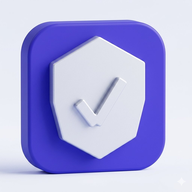
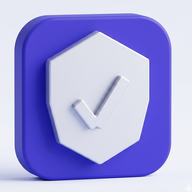
BETA 177

diff --git a/index.html b/index.html
@@ -2037,7 +2037,7 @@ function cardsSearch(q) {
   </div>
   <h1 class="auth-title">HomeBull</h1>
   <p class="auth-sub">Il tuo vault personale, sempre cifrato</p>
-  <div style="font-size:10px;color:rgba(255,255,255,0.25);margin-top:-8px;margin-bottom:4px;letter-spacing:0.05em;">BETA176</div>
+  <div style="font-size:10px;color:rgba(255,255,255,0.25);margin-top:-8px;margin-bottom:4px;letter-spacing:0.05em;">BETA177</div>
   <div class="auth-card">
 
     <!-- STEP 1: EMAIL -->
@@ -8399,7 +8399,8 @@ function settingsPage(page) {
   ['main','grafica','backup','sicurezza','info'].forEach(p => {
     const el = document.getElementById('set-page-'+p);
     if(el) el.style.display = p===page ? 'block' : 'none';
-  });
+    if (page === 'cloud') setTimeout(settingsCloudOpen, 50);
+});
   const titles = {main:'⚙️ Impostazioni',grafica:'🎨 Grafica',backup:'💾 Backup',sicurezza:'🔐 Sicurezza',info:'ℹ️ Info'};
   const t = document.getElementById('set-title'); if(t) t.textContent = titles[page]||'⚙️ Impostazioni';
   const back = document.getElementById('set-back-btn'); if(back) back.style.display = page==='main'?'none':'flex';
@@ -8849,6 +8850,7 @@ async function fbSyncAll(silent=false){
     if(Object.keys(data).length === 0) return;
     await fbDb.ref('hb13/' + emailKey).update({ ...data, _ts: tsMap });
     if(!silent) showToast('☁️ Dati sincronizzati');
+    _lastSyncTime = new Date();
     console.log('✓ Sync upload completato');
   }catch(e){
     console.warn('SyncAll:',e);
@@ -8893,6 +8895,71 @@ function fbStartRealtime(){
 
 function logout(){
   fbLogout(); HB.sessionKey=null; HB.user=null; location.reload();
+}
+
+// ── Cloud Settings ───────────────────────────────────────
+let _lastSyncTime = null;
+
+function settingsCloudOpen() {
+  // Account info
+  const emailEl = document.getElementById('cloud-account-email');
+  const uidEl   = document.getElementById('cloud-account-uid');
+  if (emailEl) emailEl.textContent = HB.user?.email || '—';
+  if (uidEl)   uidEl.textContent   = 'UID: ' + (HB.user?.uid?.slice(0,16) || '—') + '...';
+
+  // Online status
+  const dot  = document.getElementById('cloud-status-dot');
+  const txt  = document.getElementById('cloud-status-text');
+  const isOnline = navigator.onLine && fbReady;
+  if (dot) dot.style.background = isOnline ? '#10b981' : '#ef4444';
+  if (txt) { txt.textContent = isOnline ? 'Online' : 'Offline'; txt.style.color = isOnline ? '#10b981' : '#ef4444'; }
+
+  // Last sync
+  const lsEl = document.getElementById('cloud-last-sync');
+  if (lsEl) lsEl.textContent = _lastSyncTime ? 'Oggi alle ' + _lastSyncTime.toLocaleTimeString('it-IT',{hour:'2-digit',minute:'2-digit'}) : 'Mai sincronizzato';
+
+  // Auto sync toggle
+  const toggle = document.getElementById('cloud-auto-sync');
+  if (toggle) toggle.checked = localStorage.getItem('hb_auto_sync') !== '0';
+
+  // Data stats
+  try {
+    const pw  = JSON.parse(localStorage.getItem('hb12_passwords')||'[]');
+    const nt  = JSON.parse(localStorage.getItem('hb12_notes')||'[]');
+    const cal = JSON.parse(localStorage.getItem('hb12_calendar')||'[]');
+    const otp = JSON.parse(localStorage.getItem('hb12_otp_accounts')||'[]');
+    const set = (id, val) => { const el = document.getElementById(id); if(el) el.textContent = val; };
+    set('cs-passwords', pw.length);
+    set('cs-notes',     nt.length);
+    set('cs-calendar',  cal.length);
+    set('cs-otp',       otp.length);
+  } catch(e) {}
+
+  // Summary in main tile
+  const summary = document.getElementById('set-cloud-summary');
+  if (summary) summary.textContent = HB.user?.email || 'Non connesso';
+  const mainDot = document.getElementById('set-cloud-dot');
+  if (mainDot) mainDot.style.background = (navigator.onLine && fbReady) ? '#10b981' : '#ef4444';
+}
+
+async function cloudSyncNow() {
+  const btn = event?.target;
+  if (btn) { btn.disabled = true; btn.textContent = '⏳ Sync...'; }
+  try {
+    await fbSyncAll(false);
+    _lastSyncTime = new Date();
+    settingsCloudOpen();
+    showToast('✅ Sincronizzazione completata!');
+  } catch(e) {
+    showToast('⚠️ Sync fallito — controlla la connessione');
+  } finally {
+    if (btn) { btn.disabled = false; btn.textContent = 'Sincronizza ora'; }
+  }
+}
+
+function cloudToggleAutoSync(enabled) {
+  localStorage.setItem('hb_auto_sync', enabled ? '1' : '0');
+  showToast(enabled ? '✅ Sync automatico attivo' : 'Sync automatico disattivato');
 }
 
 fbInit();
@@ -9463,6 +9530,17 @@ function calShowAddEvent() {
             <div style="font-size:12px;color:var(--text3);line-height:1.4;">Versione, crediti, roadmap</div>
           </button>
 
+          <button onclick="settingsPage('cloud')" style="padding:20px 16px;border-radius:18px;border:1px solid var(--border);background:var(--surface);cursor:pointer;text-align:left;font-family:inherit;transition:background 0.15s;grid-column:span 2;">
+            <div style="display:flex;align-items:center;gap:12px;">
+              <div style="font-size:32px;">☁️</div>
+              <div>
+                <div style="font-size:15px;font-weight:800;color:var(--text);margin-bottom:4px;">Cloud & Sync</div>
+                <div style="font-size:12px;color:var(--text3);" id="set-cloud-summary">Stato sync e account connesso</div>
+              </div>
+              <div id="set-cloud-dot" style="margin-left:auto;width:10px;height:10px;border-radius:50%;background:#10b981;flex-shrink:0;"></div>
+            </div>
+          </button>
+
         </div>
       </div>
 
@@ -9548,6 +9626,88 @@ function calShowAddEvent() {
             <span style="font-size:11px;color:var(--text3);flex-shrink:0;">A piccolo</span>
             <input type="range" id="fs-slider" min="12" max="19" value="15" oninput="setFontSize(this.value)" style="flex:1;accent-color:var(--accent);">
             <span style="font-size:17px;color:var(--text3);flex-shrink:0;">A grande</span>
+          </div>
+        </div>
+
+      </div>
+
+      <!-- ── PAGINA CLOUD ── -->
+      <div id="set-page-cloud" style="display:none;padding:0 0 20px;">
+
+        <!-- Account -->
+        <div style="padding:16px 20px;border-bottom:1px solid var(--border);">
+          <div style="font-size:10px;font-weight:800;text-transform:uppercase;letter-spacing:.1em;color:var(--text3);margin-bottom:12px;">👤 Account</div>
+          <div style="display:flex;align-items:center;gap:12px;padding:14px;background:var(--surface);border:1px solid var(--border);border-radius:14px;">
+            <div style="width:40px;height:40px;border-radius:50%;background:var(--accent);display:flex;align-items:center;justify-content:center;font-size:18px;">👤</div>
+            <div style="flex:1;">
+              <div style="font-size:13px;font-weight:700;" id="cloud-account-email">—</div>
+              <div style="font-size:11px;color:var(--text3);margin-top:2px;" id="cloud-account-uid">UID: —</div>
+            </div>
+            <div style="display:flex;align-items:center;gap:6px;">
+              <div id="cloud-status-dot" style="width:8px;height:8px;border-radius:50%;background:#10b981;"></div>
+              <div style="font-size:11px;color:#10b981;font-weight:700;" id="cloud-status-text">Online</div>
+            </div>
+          </div>
+        </div>
+
+        <!-- Sync -->
+        <div style="padding:16px 20px;border-bottom:1px solid var(--border);">
+          <div style="font-size:10px;font-weight:800;text-transform:uppercase;letter-spacing:.1em;color:var(--text3);margin-bottom:12px;">🔄 Sincronizzazione</div>
+          <div style="background:var(--surface);border:1px solid var(--border);border-radius:14px;overflow:hidden;">
+            <div style="padding:12px 14px;display:flex;align-items:center;justify-content:space-between;border-bottom:1px solid var(--border);">
+              <div>
+                <div style="font-size:13px;font-weight:700;">Sync automatico</div>
+                <div style="font-size:11px;color:var(--text3);">Salva ad ogni modifica</div>
+              </div>
+              <label style="position:relative;display:inline-block;width:44px;height:24px;cursor:pointer;">
+                <input type="checkbox" id="cloud-auto-sync" checked onchange="cloudToggleAutoSync(this.checked)" style="opacity:0;width:0;height:0;">
+                <span style="position:absolute;inset:0;background:#10b981;border-radius:99px;transition:.2s;"></span>
+                <span style="position:absolute;top:2px;left:2px;width:20px;height:20px;background:#fff;border-radius:50%;transition:.2s;transform:translateX(20px);"></span>
+              </label>
+            </div>
+            <div style="padding:12px 14px;display:flex;align-items:center;justify-content:space-between;">
+              <div>
+                <div style="font-size:13px;font-weight:700;">Ultimo sync</div>
+                <div style="font-size:11px;color:var(--text3);" id="cloud-last-sync">—</div>
+              </div>
+              <button onclick="cloudSyncNow()" style="padding:8px 16px;border-radius:10px;border:none;background:var(--accent);color:#fff;font-size:12px;font-weight:700;cursor:pointer;font-family:inherit;">Sincronizza ora</button>
+            </div>
+          </div>
+        </div>
+
+        <!-- Dati sincronizzati -->
+        <div style="padding:16px 20px;border-bottom:1px solid var(--border);">
+          <div style="font-size:10px;font-weight:800;text-transform:uppercase;letter-spacing:.1em;color:var(--text3);margin-bottom:12px;">📦 Dati sincronizzati</div>
+          <div style="display:grid;grid-template-columns:1fr 1fr;gap:8px;" id="cloud-data-stats">
+            <div style="background:var(--surface);border:1px solid var(--border);border-radius:12px;padding:12px;text-align:center;">
+              <div style="font-size:20px;margin-bottom:4px;">🔐</div>
+              <div style="font-size:11px;color:var(--text3);">Password</div>
+              <div style="font-size:15px;font-weight:800;" id="cs-passwords">—</div>
+            </div>
+            <div style="background:var(--surface);border:1px solid var(--border);border-radius:12px;padding:12px;text-align:center;">
+              <div style="font-size:20px;margin-bottom:4px;">📝</div>
+              <div style="font-size:11px;color:var(--text3);">Note</div>
+              <div style="font-size:15px;font-weight:800;" id="cs-notes">—</div>
+            </div>
+            <div style="background:var(--surface);border:1px solid var(--border);border-radius:12px;padding:12px;text-align:center;">
+              <div style="font-size:20px;margin-bottom:4px;">📅</div>
+              <div style="font-size:11px;color:var(--text3);">Calendario</div>
+              <div style="font-size:15px;font-weight:800;" id="cs-calendar">—</div>
+            </div>
+            <div style="background:var(--surface);border:1px solid var(--border);border-radius:12px;padding:12px;text-align:center;">
+              <div style="font-size:20px;margin-bottom:4px;">🔑</div>
+              <div style="font-size:11px;color:var(--text3);">OTP</div>
+              <div style="font-size:15px;font-weight:800;" id="cs-otp">—</div>
+            </div>
+          </div>
+        </div>
+
+        <!-- Account actions -->
+        <div style="padding:16px 20px;">
+          <div style="font-size:10px;font-weight:800;text-transform:uppercase;letter-spacing:.1em;color:var(--text3);margin-bottom:12px;">⚙️ Azioni account</div>
+          <div style="display:flex;flex-direction:column;gap:8px;">
+            <button onclick="lockApp();closeSettings();" style="width:100%;padding:13px;border-radius:14px;border:1px solid var(--border);background:var(--surface);color:var(--text2);font-size:14px;font-weight:700;cursor:pointer;font-family:inherit;">🔒 Blocca app</button>
+            <button onclick="settingsLogout()" style="width:100%;padding:13px;border-radius:14px;border:1px solid rgba(239,68,68,0.3);background:rgba(239,68,68,0.08);color:#ef4444;font-size:14px;font-weight:700;cursor:pointer;font-family:inherit;">🚪 Disconnetti account</button>
           </div>
         </div>
 